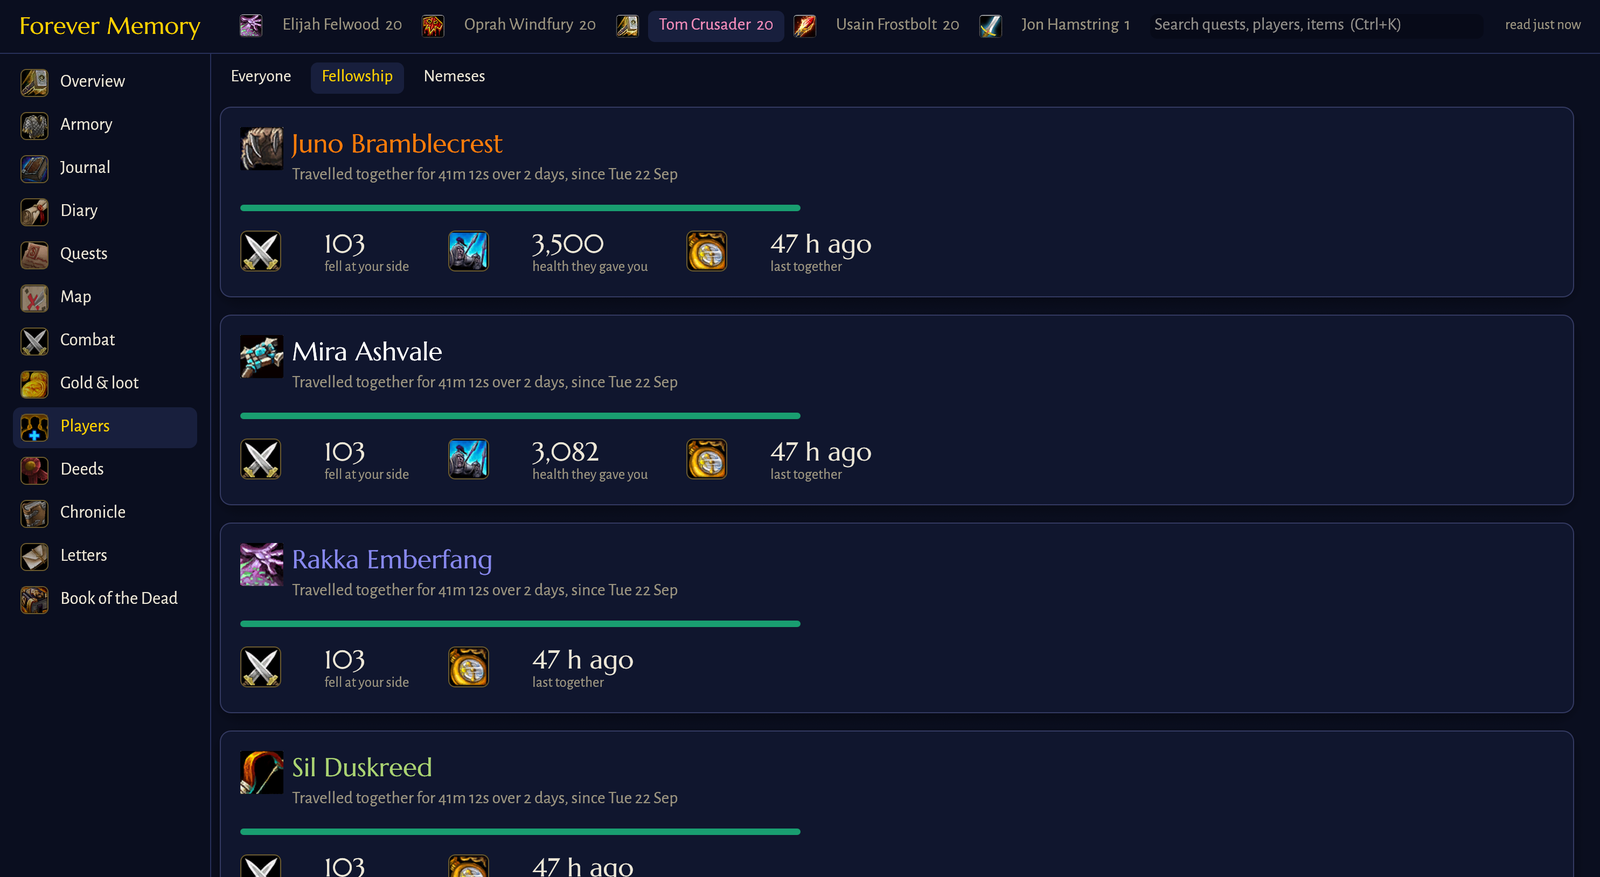
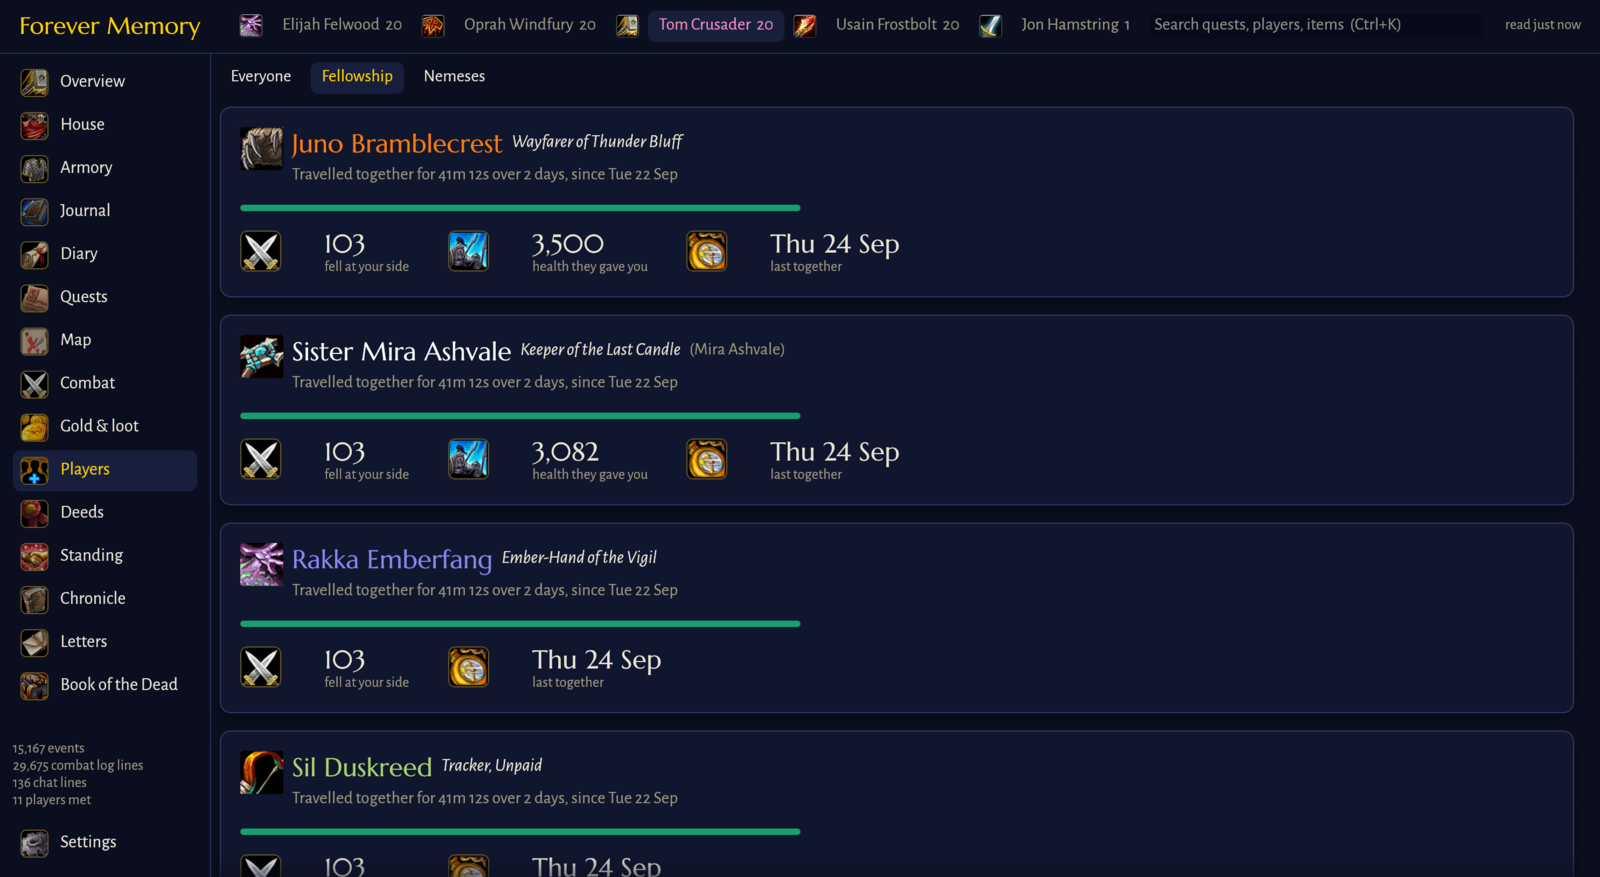
0.4.0: the House, Standing, Conversations, roleplay profiles

diff --git a/src/ui/players.rs b/src/ui/players.rs
@@ -163,7 +163,6 @@ fn everyone(ui: &mut Ui, m: &Model, st: &mut State, art: &mut Art, realm: &str) 
     ui.horizontal_top(|ui| {
         ui.vertical(|ui| {
             ui.set_width(330.0);
-            super::heading(ui, tr!("Players"));
             ui.add(
                 egui::TextEdit::singleline(&mut st.player_search)
                     .hint_text(tr!("Search by name or class"))

diff --git a/README.md b/README.md
@@ -34,6 +34,9 @@ The app speaks English, Deutsch, Français, Español, Português (Brasil) and
 
 ## What's in it
 
+- **The House**: all of a player's characters as one household, with a
+  banner and name of its own, its members, the mounts and companions it
+  owns, the Legacy and its history.
 - **Overview**: leveling curve and gold against hours played, time per zone,
   XP per hour per session, open quests nearest to done.
 - **Armory**: gear on the class scene with the game's tooltips and when each
@@ -59,7 +62,8 @@ The app speaks English, Deutsch, Français, Español, Português (Brasil) and
   (each language gets its own voice). Optional; needs an ElevenLabs API key.
 - **Quests**: active (with objective progress), completed and abandoned, with
   the full quest text, rewards offered and chosen, time taken, and how the
-  objectives progressed.
+  objectives progressed. **Conversations**: every word an NPC said to the
+  character (gossip, quest text, greetings), by NPC, replayed as a scene.
 - **Map**: the recorded path on the zone's Classic world map with quests,
   deaths and level-ups where they happened, and a replay scrubber. Only what
   the character has explored is revealed; the rest stays dark.
@@ -70,9 +74,14 @@ The app speaks English, Deutsch, Français, Español, Português (Brasil) and
 - **Players**: everyone met, searchable, with full names, class, race, level
   and guild once the addon has seen them up close (else a class guess from
   their spells), what passed between you, what they cast and what they said.
+  Their **roleplay profile** from Total RP 3, MyRolePlay or XRP (name, title,
+  appearance, history, personality traits, currently) when you have one of
+  those addons.
 - **Fellowship and nemeses**: who each character travelled with, for how
   long, and what passed between them; who killed them, where, and whether
   they took their revenge.
+- **Standing**: where each character stands with every faction, when each
+  standing was reached and how it moved (addon 0.4.0).
 - **Deeds**: class-specific feats earned from what was recorded (Hands of
   Mercy, Consecrated Ground, Payback…), each with the moment it was earned.
 - **Item stories**: every item's life, from who dropped it to what replaced
@@ -126,6 +135,10 @@ on macOS, `%APPDATA%\forever-memory` on Windows), readable only by you.
 
 Tom Crusader, a level 20 Undead Protection Paladin, and his alts are made-up demo characters (see `demo/`); no real account or player is shown.
 
+**The House**
+
+![The House](docs/screenshots/house.png)
+
 **Overview**
 
 ![Overview](docs/screenshots/overview.png)
@@ -158,6 +171,10 @@ Tom Crusader, a level 20 Undead Protection Paladin, and his alts are made-up dem
 
 ![Quests](docs/screenshots/quests.png)
 
+**Conversations**
+
+![Conversations](docs/screenshots/conversations.png)
+
 **Map**
 
 ![Map](docs/screenshots/map.png)
@@ -165,6 +182,10 @@ Tom Crusader, a level 20 Undead Protection Paladin, and his alts are made-up dem
 **Combat**
 
 ![Combat](docs/screenshots/combat.png)
+
+**Standing**
+
+![Standing](docs/screenshots/standing.png)
 
 **Book of the Dead**
 
@@ -174,7 +195,7 @@ Tom Crusader, a level 20 Undead Protection Paladin, and his alts are made-up dem
 
 ![Gold & loot](docs/screenshots/gold.png)
 
-**Players**
+**Players** (with a Total RP 3 profile)
 
 ![Players](docs/screenshots/players.png)
 

diff --git a/CHANGELOG.md b/CHANGELOG.md
@@ -1,5 +1,17 @@
 # Changelog
 
+## 0.4.0
+
+- The House: the account as a household, with a banner, a name you can
+  change, its members, the mounts and companions it owns, the Legacy and a
+  history of firsts, deaths, deeds, letters and notable kills.
+- Standing: every faction's standing, when each was reached, and how it
+  moved. Needs addon 0.4.0 (offered in Settings) and a login.
+- Conversations under Quests: what each NPC said, replayed as a scene.
+- Roleplay profiles from Total RP 3, MyRolePlay and XRP on the Players page.
+- Empty pages say what will appear there, in the game's own look.
+- Pages no longer carry a title of their own.
+
 ## 0.3.0
 
 - Deeds: 14 for everyone and 6 per class, earned from what was recorded.
